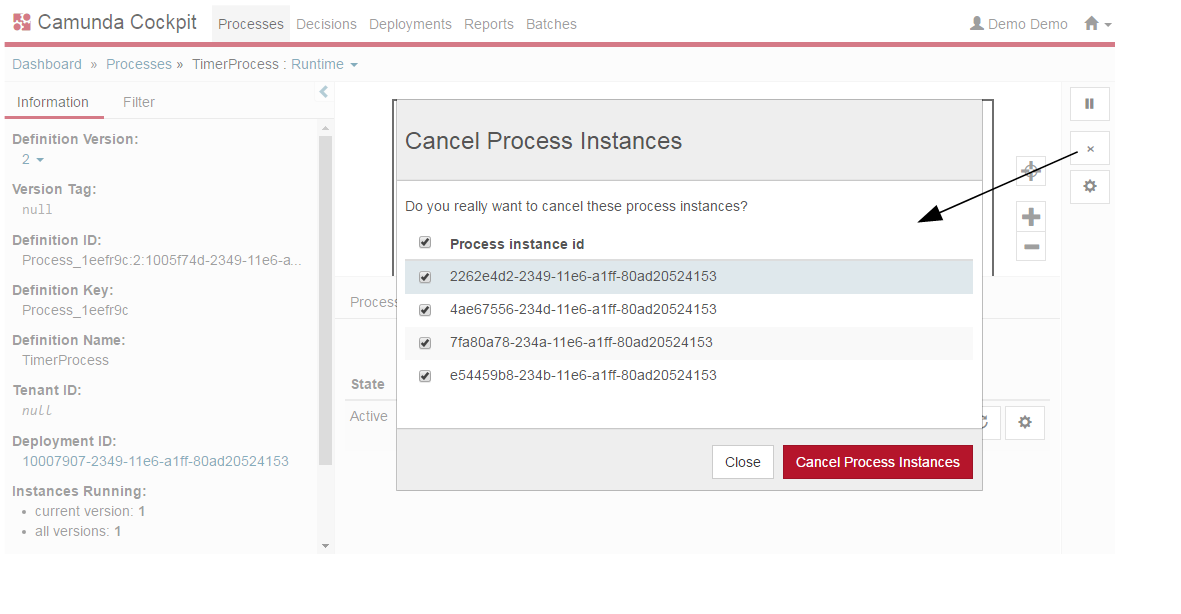
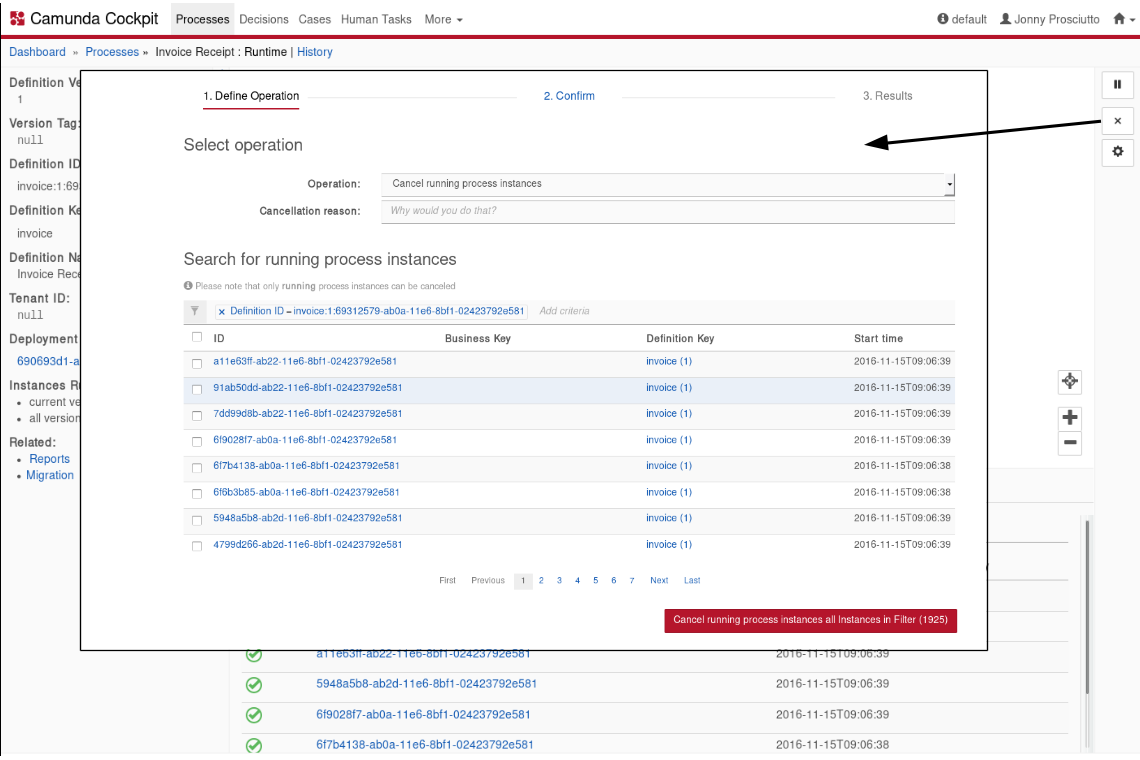
chore(cockpit/filter): update two more screenshots
related to #CAM-6827

diff --git a/content/webapps/cockpit/bpmn/process-definition-view.md b/content/webapps/cockpit/bpmn/process-definition-view.md
@@ -127,7 +127,7 @@ Please note that this feature is only included in the enterprise edition of the 
 
 {{< img src="../../img/cockpit-bulk-cancel.png" title="Bulk Cancel" >}}
 
-Cancel multiple process instances at once by using this feature. In the process definition view, hit the {{< glyphicon name="remove-circle" >}} button on the right side. This opens a confirmation screen in which you can select which process instances to cancel. After you have selected which instances to cancel and confirmed the cancellation, the runtime data of the canceled instances will be deleted. Please note that only process instances in the current view can be canceled, i.e., a maximum of 50 process instances at once.
+Cancel multiple process instances at once by using this feature. In the process definition view, hit the {{< glyphicon name="remove-circle" >}} button on the right side. This opens a confirmation screen in which you can select which process instances to cancel. You can apply [filters](#filter) to make it easier to find the desired process instances. In addition, it is possible to provide a reason for the cancellation. After you have selected which instances to cancel and confirmed the cancellation, the runtime data of the canceled instances will be deleted. Please note that only process instances in the current view can be canceled, i.e., a maximum of 50 process instances at once.
 
 
 # Set Job priority
